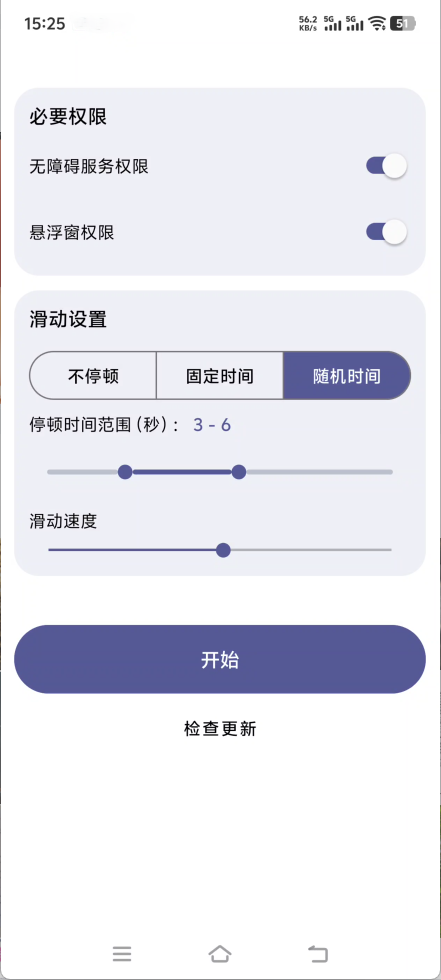
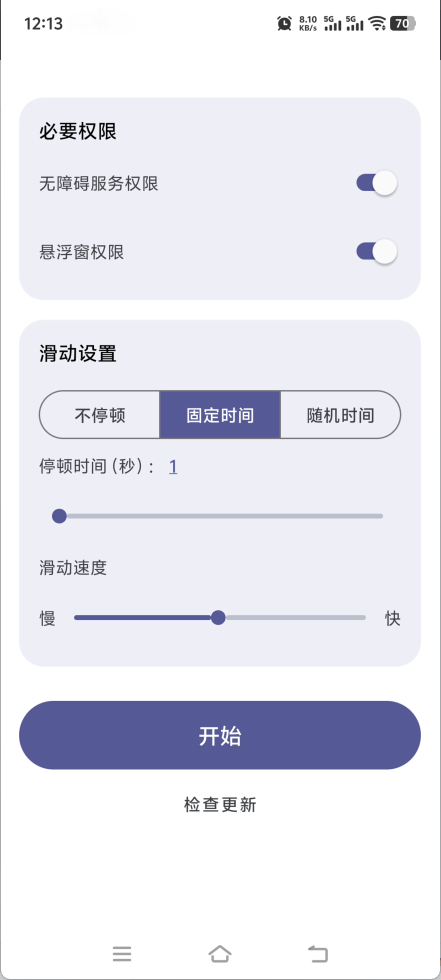
fix(app): 降低最低支持版本并修复低版本崩溃
- 将最低支持SDK版本由31降至26，增强系统向下兼容性
- 修复低版本系统因获取longVersionCode导致的NoSuchFieldError崩溃
- 在主题样式中添加tools:targetApi属性，解决Lint警告
- 添加深色模式下的颜色资源，优化深色主题展示效果
- 更新版本号至2.5.1，并同步README及更新日志信息

diff --git a/app/src/main/java/com/ltx/UpdateChecker.kt b/app/src/main/java/com/ltx/UpdateChecker.kt
@@ -15,6 +15,7 @@ import android.util.Log
 import android.widget.Toast
 import androidx.appcompat.app.AlertDialog
 import androidx.core.content.ContextCompat
+import androidx.core.content.pm.PackageInfoCompat
 import androidx.core.net.toUri
 import androidx.lifecycle.Lifecycle
 import androidx.lifecycle.LifecycleEventObserver
@@ -358,6 +359,6 @@ object UpdateChecker {
         } else {
             context.packageManager.getPackageInfo(context.packageName, 0)
         }
-        return packageInfo.longVersionCode
+        return PackageInfoCompat.getLongVersionCode(packageInfo)
     }
 }

diff --git a/README.en.md b/README.en.md
@@ -1,7 +1,7 @@
 # Android Auto-Slide App [AutoSlide]
 
 [![License](https://img.shields.io/badge/License-Apache%202.0-blue.svg)](https://opensource.org/licenses/Apache-2.0)
-[![Version](https://img.shields.io/badge/Version-2.5-green)](https://github.com/tianxing-ovo/AutoSlide/releases/latest)
+[![Version](https://img.shields.io/badge/Version-2.5.1-green)](https://github.com/tianxing-ovo/AutoSlide/releases/latest)
 [![Downloads](https://img.shields.io/github/downloads/tianxing-ovo/AutoSlide/total?cacheSeconds=86400)](https://github.com/tianxing-ovo/AutoSlide/releases)
 [![Latest Downloads](https://img.shields.io/github/downloads/tianxing-ovo/AutoSlide/latest/total?cacheSeconds=86400)](https://github.com/tianxing-ovo/AutoSlide/releases/latest)
 
@@ -27,6 +27,10 @@ A simple and efficient auto-slide solution for Android devices, ideal for automa
 
 ## Recent Updates
 
+- `v2.5.1`
+  - Optimized backward compatibility, lowering the minimum supported OS version to Android 8.0 (API 26)
+  - Fixed a potential crash (NoSuchFieldError) on older platforms when retrieving the package version code via `longVersionCode`
+  - Refined style definitions with `tools:targetApi` to resolve lint errors and improve dark mode presentation on certain API levels
 - `v2.5`
   - Added Quick Settings Tile support in the system notification panel, enabling one-tap toggling of the floating window service
   - Real-time two-way sync between tile state and service lifecycle (e.g. closing via overlay or unexpected service kills) to guarantee UI consistency
@@ -36,11 +40,6 @@ A simple and efficient auto-slide solution for Android devices, ideal for automa
   - Optimized floating window interaction, allowing users to drag the expanded panel from any position (including on top of buttons) without accidental clicks
   - Resolved accessibility compliance warnings by overriding `performClick()` in the custom layout container
   - Upgraded the PRNG implementation to `SecureRandom` to pass SonarQube security audit checks (kotlin:S2245)
-- `v2.3`
-  - Refactored update checker to use Kotlin Coroutines for clean asynchronous execution
-  - Optimized background permission checks in MainActivity using lifecycleScope, preventing memory leaks
-  - Removed redundant `canRetrieveWindowContent` accessibility permission to improve user privacy
-  - Cleaned up unused resources and resolved all Android Lint warnings for a cleaner codebase
 ## Screenshots
 
 ![](assets/screenshot.png)
@@ -49,7 +48,7 @@ A simple and efficient auto-slide solution for Android devices, ideal for automa
 
 ### Prerequisites
 
-- Android 12.0 or higher
+- Android 8.0 or higher
 
 ### Installation
 

diff --git a/README.md b/README.md
@@ -1,7 +1,7 @@
 # 安卓自动滑动器APP [AutoSlide]
 
 [![License](https://img.shields.io/badge/License-Apache%202.0-blue.svg)](https://opensource.org/licenses/Apache-2.0)
-[![Version](https://img.shields.io/badge/Version-2.5-green)](https://github.com/tianxing-ovo/AutoSlide/releases/latest)
+[![Version](https://img.shields.io/badge/Version-2.5.1-green)](https://github.com/tianxing-ovo/AutoSlide/releases/latest)
 [![Downloads](https://img.shields.io/github/downloads/tianxing-ovo/AutoSlide/total?cacheSeconds=86400)](https://github.com/tianxing-ovo/AutoSlide/releases)
 [![Latest Downloads](https://img.shields.io/github/downloads/tianxing-ovo/AutoSlide/latest/total?cacheSeconds=86400)](https://github.com/tianxing-ovo/AutoSlide/releases/latest)
 
@@ -27,6 +27,10 @@
 
 ## 最近更新
 
+- `v2.5.1`
+  - 优化系统向下兼容性，最低支持版本降至 Android 8.0 (API 26)
+  - 修复低版本系统上由于获取版本号 (longVersionCode) 导致运行崩溃的问题
+  - 优化深色模式主题在部分系统版本上的样式表现并解决 Lint 审查警告
 - `v2.5`
   - 新增系统下拉通知栏快捷磁贴（Quick Settings Tile），支持从状态栏一键快捷启动/停止悬浮窗服务
   - 磁贴状态与悬浮窗服务生命周期（如悬浮球内关闭或服务异常退出）实时双向同步，确保 UI 状态一致
@@ -36,11 +40,6 @@
   - 优化悬浮窗交互体验，支持在展开状态下面板任意位置（包括按钮上）直接拖拽移动，完美解决触控拦截冲突
   - 修复自定义悬浮窗容器在 Android 无障碍环境下的 performClick 规范化警告，增强系统兼容性与合规性
   - 升级核心随机数生成器为 SecureRandom 安全随机算法，彻底解决 SonarQube 安全审计热点 (kotlin:S2245)
-- `v2.3`
-  - 重构更新检测与界面逻辑，全面迁移至 Kotlin 协程 (Coroutines) 异步处理
-  - 优化权限监控与生命周期绑定，彻底消除潜在的页面内存泄漏隐患
-  - 移除无障碍服务配置中冗余的窗口内容读取权限，提升隐私合规性
-  - 清理项目中全部冗余无用资源，全面通过并修复 Android Lint 的所有审查缺陷
 ## 截图展示
 
 ![](assets/screenshot.png)
@@ -49,7 +48,7 @@
 
 ### 前提条件
 
-- Android 12.0及以上版本
+- Android 8.0及以上版本
 
 ### 安装步骤
 